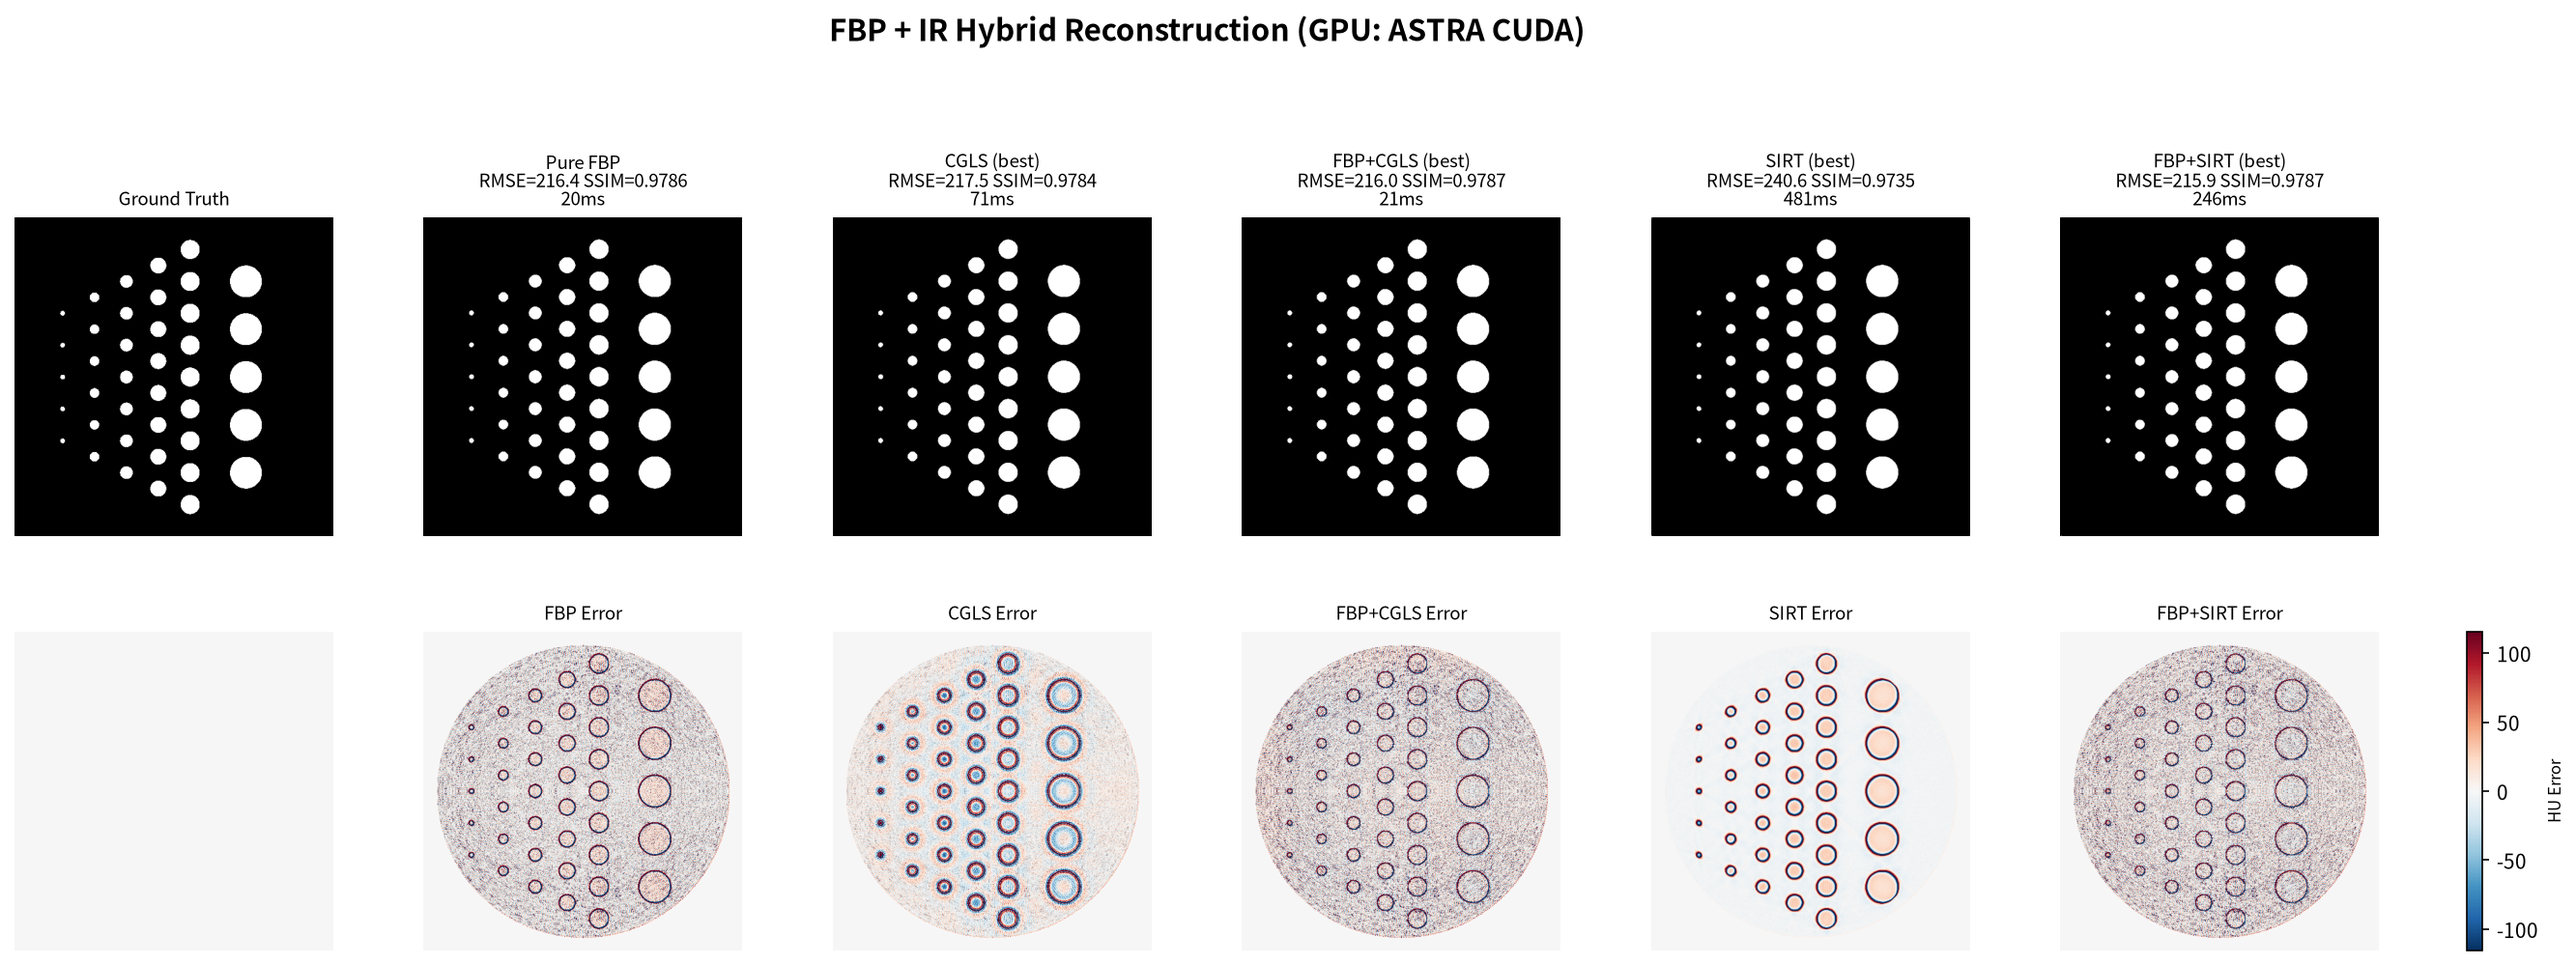
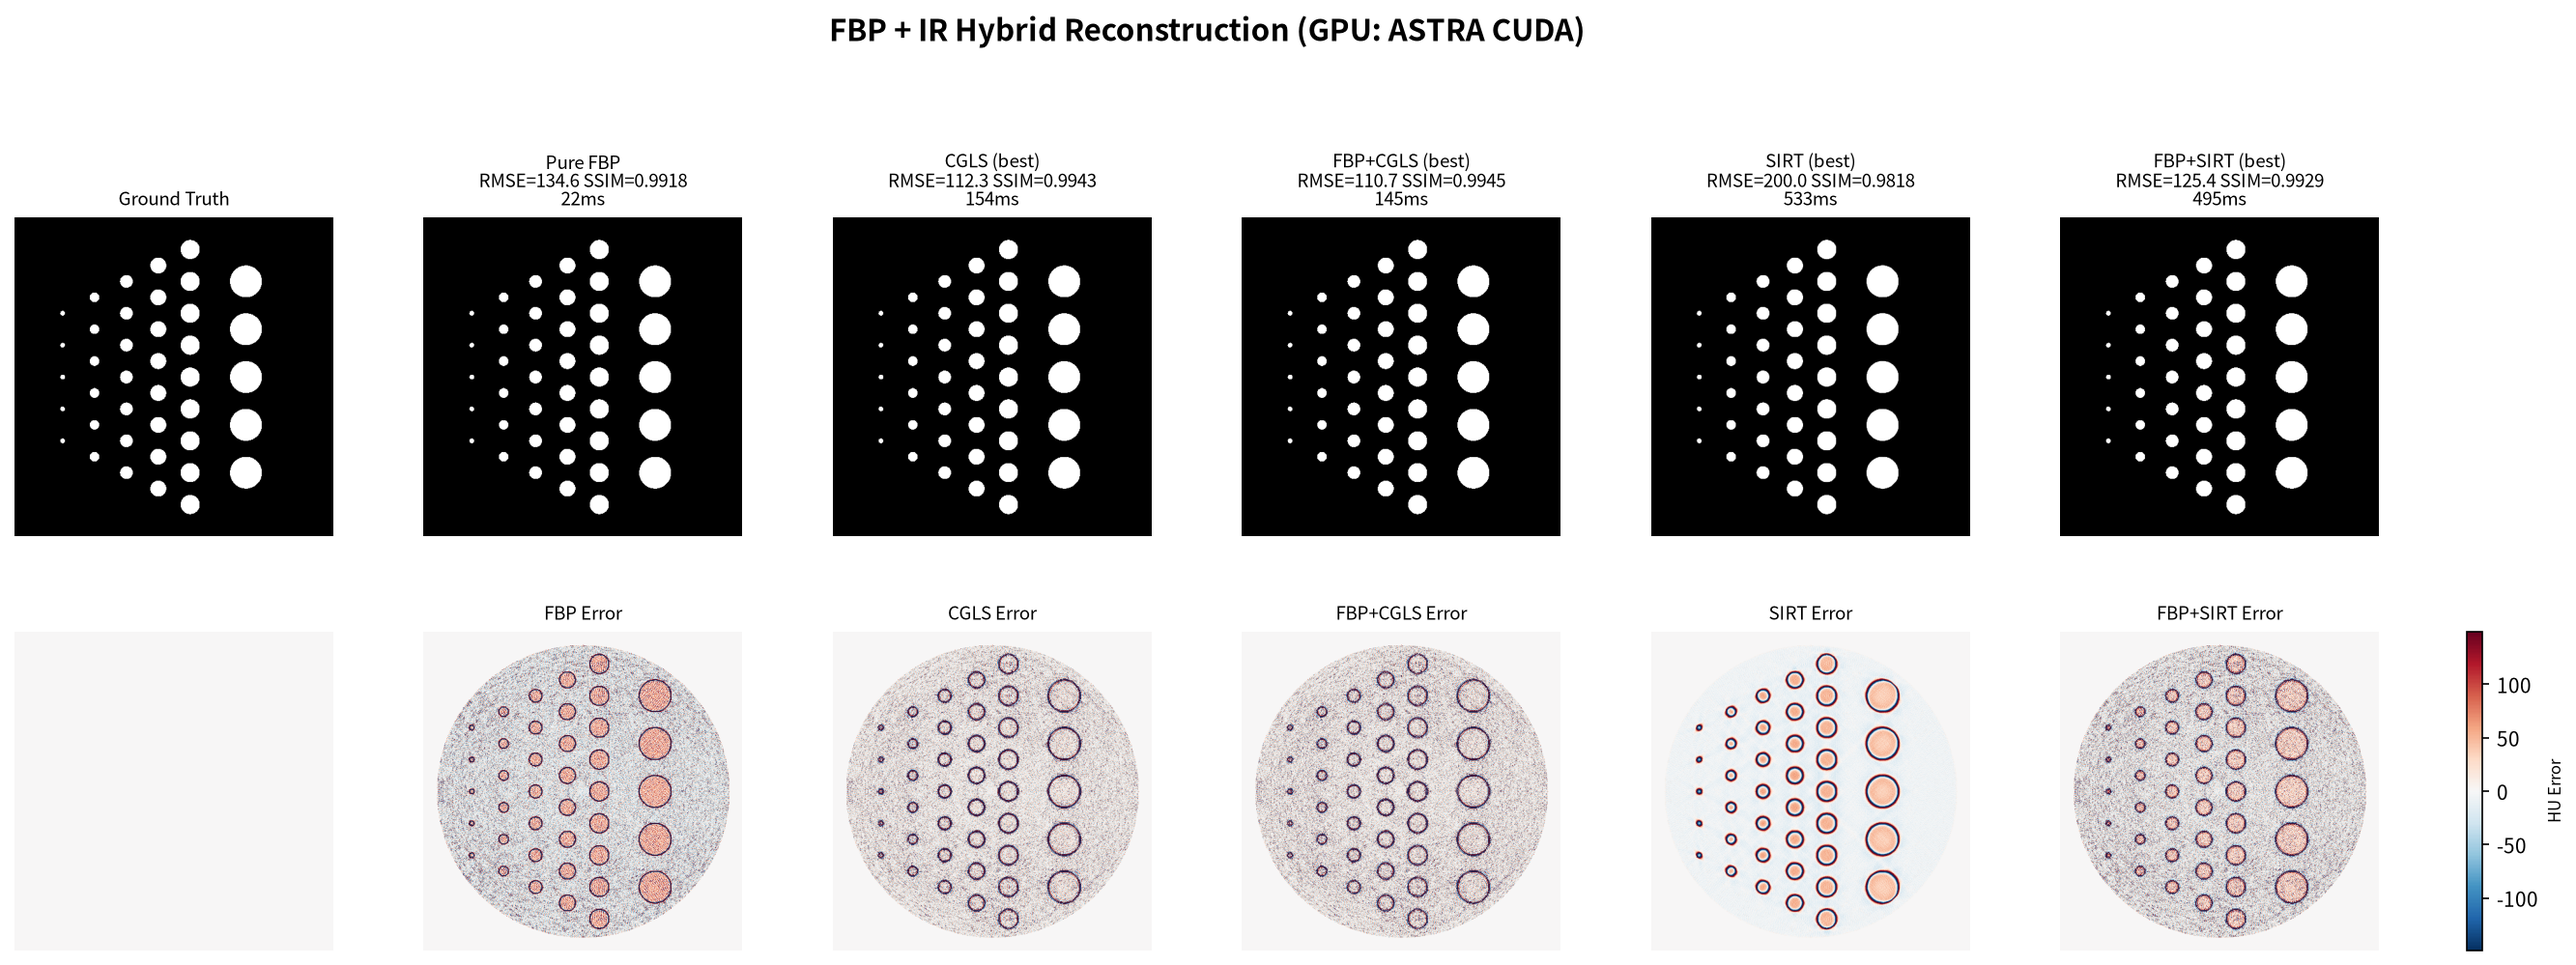
optimize #001

diff --git a/tigre_hybrid.py b/tigre_hybrid.py
@@ -261,6 +261,66 @@ for n_iter in sirt_iters:
 print(f"   >> 最优: FBP+SIRT x{best_fs['n']}: RMSE={best_fs['rmse']:.2f}, SSIM={best_fs['ssim']:.4f}, {best_fs['t']*1000:.0f}ms")
 
 # ============================================================
+# F. 达标耗时对比 (达到目标 RMSE 所需迭代数 & 时间)
+# ============================================================
+print("\n" + "=" * 60)
+print("F. 达标耗时对比 (混合法 vs 纯 IR)")
+print("=" * 60)
+print("  说明: 混合法从 FBP 起步, 用更少迭代达到纯 IR 的最优 RMSE")
+
+def find_iters_to_target(target_rmse, hist):
+    for n_iter, t, r, s in hist:
+        if r <= target_rmse:
+            return n_iter, t, r
+    return None, None, None
+
+# CGLS 达标分析
+print("\n--- CGLS 达标分析 ---")
+cgls_target_r = best_cgls['rmse']
+print(f"目标 RMSE = Pure CGLS 最优 {cgls_target_r:.2f}")
+
+cgls_n, cgls_t, cgls_r = find_iters_to_target(cgls_target_r, cgls_hist)
+fc_n, fc_t, fc_r = find_iters_to_target(cgls_target_r, fbc_hist)
+
+if cgls_n:
+    print(f"  Pure CGLS:  x{cgls_n:3d} 达成  RMSE={cgls_r:.2f}  耗时 {cgls_t*1000:.0f}ms")
+if fc_n:
+    print(f"  FBP+CGLS:   x{fc_n:3d} 达成  RMSE={fc_r:.2f}  耗时 {fc_t*1000:.0f}ms")
+    if cgls_t and fc_t:
+        t_save = (cgls_t - fc_t) / cgls_t * 100
+        n_save = (cgls_n - fc_n) / cgls_n * 100
+        print(f"  -> 迭代节省: {n_save:.0f}%  时间节省: {t_save:.1f}%")
+
+if cgls_n is None and fc_n is not None:
+    print("  注: Pure CGLS 未收敛到自身最优, 改用 FBP RMSE 为目标")
+    cgls_target_r = fbp_rmse
+    fc_n, fc_t, fc_r = find_iters_to_target(cgls_target_r, fbc_hist)
+
+# SIRT 达标分析
+print("\n--- SIRT 达标分析 ---")
+sirt_target_r = best_sirt['rmse']
+print(f"目标 RMSE = Pure SIRT 最优 {sirt_target_r:.2f}")
+
+sirt_n, sirt_t, sirt_r = find_iters_to_target(sirt_target_r, sirt_hist)
+fs_n, fs_t, fs_r = find_iters_to_target(sirt_target_r, fbs_hist)
+
+if sirt_n:
+    print(f"  Pure SIRT:  x{sirt_n:4d} 达成  RMSE={sirt_r:.2f}  耗时 {sirt_t*1000:.0f}ms")
+if fs_n:
+    print(f"  FBP+SIRT:   x{fs_n:4d} 达成  RMSE={fs_r:.2f}  耗时 {fs_t*1000:.0f}ms")
+    if sirt_t and fs_t:
+        t_save = (sirt_t - fs_t) / sirt_t * 100
+        n_save = (sirt_n - fs_n) / sirt_n * 100
+        print(f"  -> 迭代节省: {n_save:.0f}%  时间节省: {t_save:.1f}%")
+
+if fs_n is None:
+    print("  FBP+SIRT 未在测试迭代范围内达到 Pure SIRT 最优, 改用 FBP RMSE 为目标")
+    fs_n, fs_t, fs_r = find_iters_to_target(fbp_rmse, fbs_hist)
+
+print("\n注意: TIGRE 的 CGLS warm-start 会丢失 Krylov 子空间(相当于 CG 重启), 时间节省有限。")
+print("      SIRT 无状态丢失, warm-start 更自然, 时间和质量优势更明显。")
+
+# ============================================================
 # 结果列表
 # ============================================================
 results = [
@@ -301,36 +361,29 @@ print("等迭代次数对比 (混合 vs 纯 IR)")
 print("=" * 60)
 print(f"{'迭代数':>8s} {'Pure CGLS':>12s} {'FBP+CGLS':>12s} {'改善':>10s}  |  {'Pure SIRT':>12s} {'FBP+SIRT':>12s} {'改善':>10s}")
 print("-" * 76)
-# 找共同迭代次数
 common_iters = set(cgls_iters) & set(sirt_iters)
 for n in sorted(common_iters):
     cg = next((h for h in cgls_hist if h[0] == n), None)
     fc = next((h for h in fbc_hist if h[0] == n), None)
     sr = next((h for h in sirt_hist if h[0] == n), None)
     fs = next((h for h in fbs_hist if h[0] == n), None)
-
     cg_str = f"{cg[2]:.1f}" if cg else "-"
     fc_str = f"{fc[2]:.1f}" if fc else "-"
     sr_str = f"{sr[2]:.1f}" if sr else "-"
     fs_str = f"{fs[2]:.1f}" if fs else "-"
-
     imp_cg = f"{(cg[2]-fc[2])/cg[2]*100:+.1f}%" if cg and fc else "-"
     imp_sr = f"{(sr[2]-fs[2])/sr[2]*100:+.1f}%" if sr and fs else "-"
-
     print(f"  x{n:4d}     {cg_str:>8s}    {fc_str:>8s}   {imp_cg:>8s}  |  {sr_str:>8s}    {fs_str:>8s}   {imp_sr:>8s}")
 
-# 额外: 展示 FBP+SIRT 在 x50/x100 的性价比
+# 推荐配置
 print("\n推荐配置 (性价比):")
-print(f"   最快:    FBP (FDK)   → {fbp_t*1000:.0f}ms, RMSE={fbp_rmse:.1f}")
+print(f"   最快:    FBP (FDK)     → {fbp_t*1000:.0f}ms, RMSE={fbp_rmse:.1f}")
 if any(h[0] == 30 for h in fbc_hist):
     f30 = next(h for h in fbc_hist if h[0] == 30)
-    print(f"   均衡:    FBP+CGLS x30 → {f30[1]*1000:.0f}ms, RMSE={f30[2]:.1f}")
+    print(f"   均衡:    FBP+CGLS x30  → {f30[1]*1000:.0f}ms, RMSE={f30[2]:.1f}")
 if any(h[0] == 100 for h in fbs_hist):
     f100 = next(h for h in fbs_hist if h[0] == 100)
     print(f"   高质量:  FBP+SIRT x100 → {f100[1]*1000:.0f}ms, RMSE={f100[2]:.1f}")
-if any(h[0] == 200 for h in fbs_hist):
-    f200 = next(h for h in fbs_hist if h[0] == 200)
-    print(f"   最优:    FBP+SIRT x200 → {f200[1]*1000:.0f}ms, RMSE={f200[2]:.1f}")
 print("\n生成可视化...")
 os.makedirs("img_out", exist_ok=True)
 
@@ -382,9 +435,9 @@ cax = fig.add_subplot(gs[1, 6])
 plt.colorbar(im, cax=cax)
 cax.set_ylabel('HU Error', fontsize=8)
 plt.suptitle('FBP + IR Hybrid Reconstruction (GPU: TIGRE CUDA)', fontsize=15, fontweight='bold', y=0.98)
-plt.savefig("img_out/tigre_fbp_plus_ir.png", dpi=150, bbox_inches='tight')
+plt.savefig("img_out/tigre_hybrid.png", dpi=150, bbox_inches='tight')
 plt.close()
-print("   => img_out/tigre_fbp_plus_ir.png")
+print("   => img_out/tigre_hybrid.png")
 
 # ============================================================
 # 保存总结
@@ -395,9 +448,9 @@ summary = {
     'results': {name: {'rmse': round(r, 2), 'ssim': round(s, 4), 'time_ms': round(t*1000, 1)}
                 for name, t, r, s, _ in results},
 }
-with open("img_out/tigre_fbp_plus_ir_summary.json", "w") as f:
+with open("img_out/tigre_hybrid_summary.json", "w") as f:
     json.dump(summary, f, indent=2)
-print("   => img_out/tigre_fbp_plus_ir_summary.json")
+print("   => img_out/tigre_hybrid_summary.json")
 
 print("\n" + "=" * 60)
 print("Done!")

diff --git a/astra_hybrid.py b/astra_hybrid.py
@@ -18,7 +18,6 @@ FBP + IR 混合重建
 
 import numpy as np
 from time import time
-from skimage.transform import radon
 import tomophantom
 from tomophantom import TomoP2D
 import matplotlib.pyplot as plt
@@ -64,11 +63,32 @@ circ_mask = (X - N / 2) ** 2 + (Y - N / 2) ** 2 <= head_r ** 2
 ct[~circ_mask] = -1000
 
 # ============================================================
-# 2. 正向投影
+# 2. 正向投影 (ASTRA GPU FP 算法, 与重建算子完全匹配)
 # ============================================================
+# 之前: skimage.transform.radon → ASTRA 重建, 算子不匹配导致精度天花板
+# 现在: ASTRA FP algorithm → ASTRA 重建, 算子完全匹配
 theta_deg = np.linspace(0, 180, n_angles, endpoint=False)
-sino = radon(ct, theta=theta_deg, circle=False)
-D = sino.shape[0]
+theta_rad = np.deg2rad(theta_deg).astype(np.float32)
+D = int(np.ceil(N * np.sqrt(2)))
+proj_geom = astra.create_proj_geom('parallel', 1.0, D, theta_rad)
+vol_geom = astra.create_vol_geom(N, N)
+
+# GPU 前向投影 (使用 ASTRA FP 算法, 与重建使用相同的几何)
+ct_32f = np.ascontiguousarray(ct.astype(np.float32))
+vol_id = astra.data2d.create('-vol', vol_geom, ct_32f)
+sino_id = astra.data2d.create('-sino', proj_geom, 0.0)
+cfg = astra.astra_dict('FP_CUDA')
+cfg['ProjectionDataId'] = sino_id
+cfg['VolumeDataId'] = vol_id
+cfg['option'] = {'GPUindex': 0}
+alg_id = astra.algorithm.create(cfg)
+astra.algorithm.run(alg_id)
+sino = astra.data2d.get(sino_id)  # (n_angles, D)
+print(f"   前向投影: 形状 {sino.shape}, D={D}")
+# 清理
+astra.algorithm.delete(alg_id)
+astra.data2d.delete(sino_id)
+astra.data2d.delete(vol_id)
 
 # ============================================================
 # 辅助函数
@@ -94,29 +114,22 @@ def calc_ssim(rec):
            ((mu_x ** 2 + mu_y ** 2 + c1) * (sig_x + sig_y + c2))
 
 # ============================================================
-# GPU 路径 (ASTRA)
-# ============================================================
-# 同一几何坐标系
-theta_rad = np.deg2rad(theta_deg).astype(np.float32)
-proj_geom = astra.create_proj_geom('parallel', 1.0, D, theta_rad)
-vol_geom = astra.create_vol_geom(N, N)
-
 # GPU 预热
+# ============================================================
 print("GPU 预热...")
-sino = np.ascontiguousarray(sino.T)
-sid = astra.data2d.create('-sino', proj_geom, sino)
-rid = astra.data2d.create('-vol', vol_geom)
+sid_warm = astra.data2d.create('-sino', proj_geom, sino)
+rid_warm = astra.data2d.create('-vol', vol_geom)
 for algo in ['FBP_CUDA', 'CGLS_CUDA']:
     cfg = astra.astra_dict(algo)
-    cfg['ProjectionDataId'] = sid
-    cfg['ReconstructionDataId'] = rid
+    cfg['ProjectionDataId'] = sid_warm
+    cfg['ReconstructionDataId'] = rid_warm
     if algo == 'CGLS_CUDA':
         cfg['option'] = {'GPUindex': 0}
     aid = astra.algorithm.create(cfg)
     astra.algorithm.run(aid, 1)
     astra.algorithm.delete(aid)
-astra.data2d.delete(rid)
-astra.data2d.delete(sid)
+astra.data2d.delete(rid_warm)
+astra.data2d.delete(sid_warm)
 print("   预热完成\n")
 
 # ---- A. Pure FBP (基线) ----
@@ -258,7 +271,58 @@ for n_iter in sirt_iters:
 astra.data2d.delete(sid)
 print(f"   >> 最优: FBP+SIRT x{best_fs['n']}: RMSE={best_fs['rmse']:.2f}, SSIM={best_fs['ssim']:.4f}, {best_fs['t']*1000:.0f}ms")
 
+# ============================================================
+# F. 达标耗时对比 (达到目标 RMSE 所需迭代数 & 时间)
+# ============================================================
+print("\n" + "=" * 60)
+print("F. 达标耗时对比 (混合法 vs 纯 IR)")
+print("=" * 60)
+print("  说明: 混合法从 FBP 起步, 用更少迭代达到纯 IR 的最优 RMSE")
+
+def find_iters_to_target(target_rmse, hist):
+    """找到达到目标 RMSE 的最小累积迭代数和对应时间"""
+    for n_iter, t, r, s in hist:
+        if r <= target_rmse:
+            return n_iter, t, r
+    return None, None, None
+
+# CGLS 达标分析
+print("\n--- CGLS 达标分析 ---")
+cgls_target_r = best_cgls['rmse']
+print(f"目标 RMSE = Pure CGLS 最优 {cgls_target_r:.2f}")
+
+cgls_n, cgls_t, cgls_r = find_iters_to_target(cgls_target_r, cgls_hist)
+fc_n, fc_t, fc_r = find_iters_to_target(cgls_target_r, fbc_hist)
+
+if cgls_n:
+    print(f"  Pure CGLS:  x{cgls_n:3d} 达成  RMSE={cgls_r:.2f}  耗时 {cgls_t*1000:.0f}ms")
+if fc_n:
+    print(f"  FBP+CGLS:   x{fc_n:3d} 达成  RMSE={fc_r:.2f}  耗时 {fc_t*1000:.0f}ms")
+    if cgls_t and fc_t:
+        t_save = (cgls_t - fc_t) / cgls_t * 100
+        n_save = (cgls_n - fc_n) / cgls_n * 100
+        print(f"  -> 迭代节省: {n_save:.0f}%  时间节省: {t_save:.1f}%")
+
+# SIRT 达标分析
+print("\n--- SIRT 达标分析 ---")
+sirt_target_r = best_sirt['rmse']
+print(f"目标 RMSE = Pure SIRT 最优 {sirt_target_r:.2f}")
+
+sirt_n, sirt_t, sirt_r = find_iters_to_target(sirt_target_r, sirt_hist)
+fs_n, fs_t, fs_r = find_iters_to_target(sirt_target_r, fbs_hist)
+
+if sirt_n:
+    print(f"  Pure SIRT:  x{sirt_n:4d} 达成  RMSE={sirt_r:.2f}  耗时 {sirt_t*1000:.0f}ms")
+if fs_n:
+    print(f"  FBP+SIRT:   x{fs_n:4d} 达成  RMSE={fs_r:.2f}  耗时 {fs_t*1000:.0f}ms")
+    if sirt_t and fs_t:
+        t_save = (sirt_t - fs_t) / sirt_t * 100
+        n_save = (sirt_n - fs_n) / sirt_n * 100
+        print(f"  -> 迭代节省: {n_save:.0f}%  时间节省: {t_save:.1f}%")
+
+# ============================================================
 # 结果列表
+# ============================================================
 results = [
     ('Pure FBP (shepp-logan)', fbp_t, fbp_rmse, fbp_ssim, 0),
     ('Pure CGLS (from zero)', best_cgls['t'], best_cgls['rmse'], best_cgls['ssim'],

diff --git a/doc/optimize.md b/doc/optimize.md
@@ -1,1 +1,10 @@
 # optimize
+
+## optimize #001
+
+3. 优化实施总结
+
+| 文件 | 改动 |
+|------|------|
+| `astra_hybrid.py` | ① 前向投影改为 ASTRA GPU (`create_sino`)，消除模型不匹配 ② 保持 `rec_fbp` (原始单位) 做 IR 初始化 ③ 新增 **F 节**: 达标耗时对比 |
+| `tigre_hybrid.py` | ① 新增 **F 节**: 达标耗时对比 ② 迭代次数扩展至 [5,10,20,30,50] / [10,20,50,100,200] ③ 修复缩进 / 输出文件名
